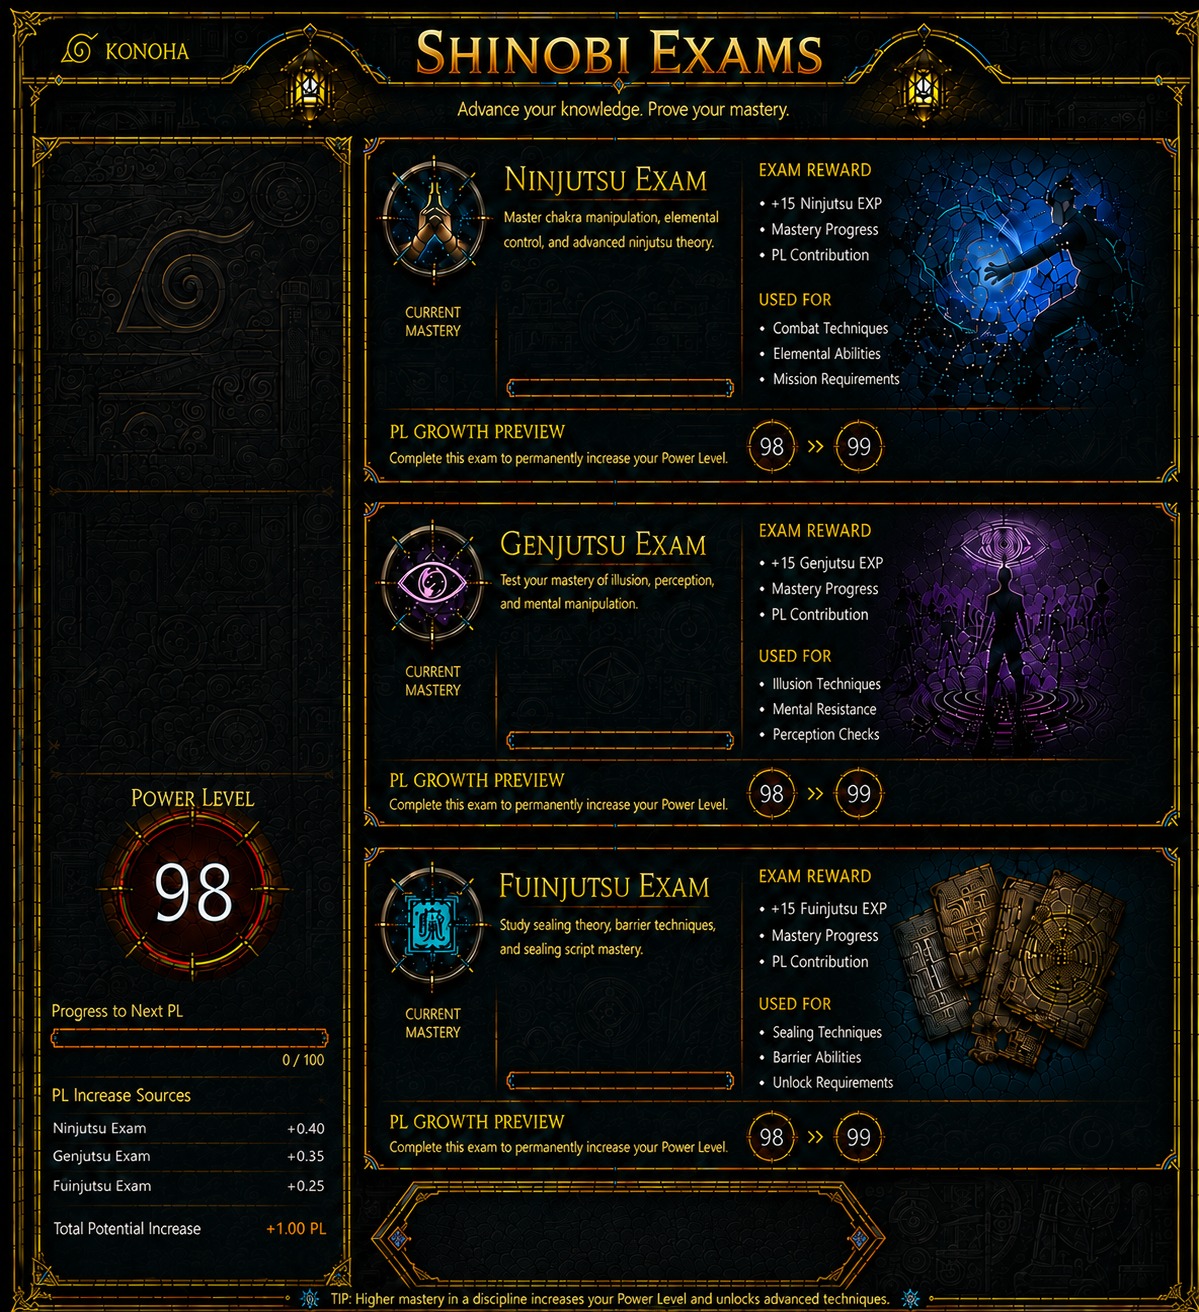
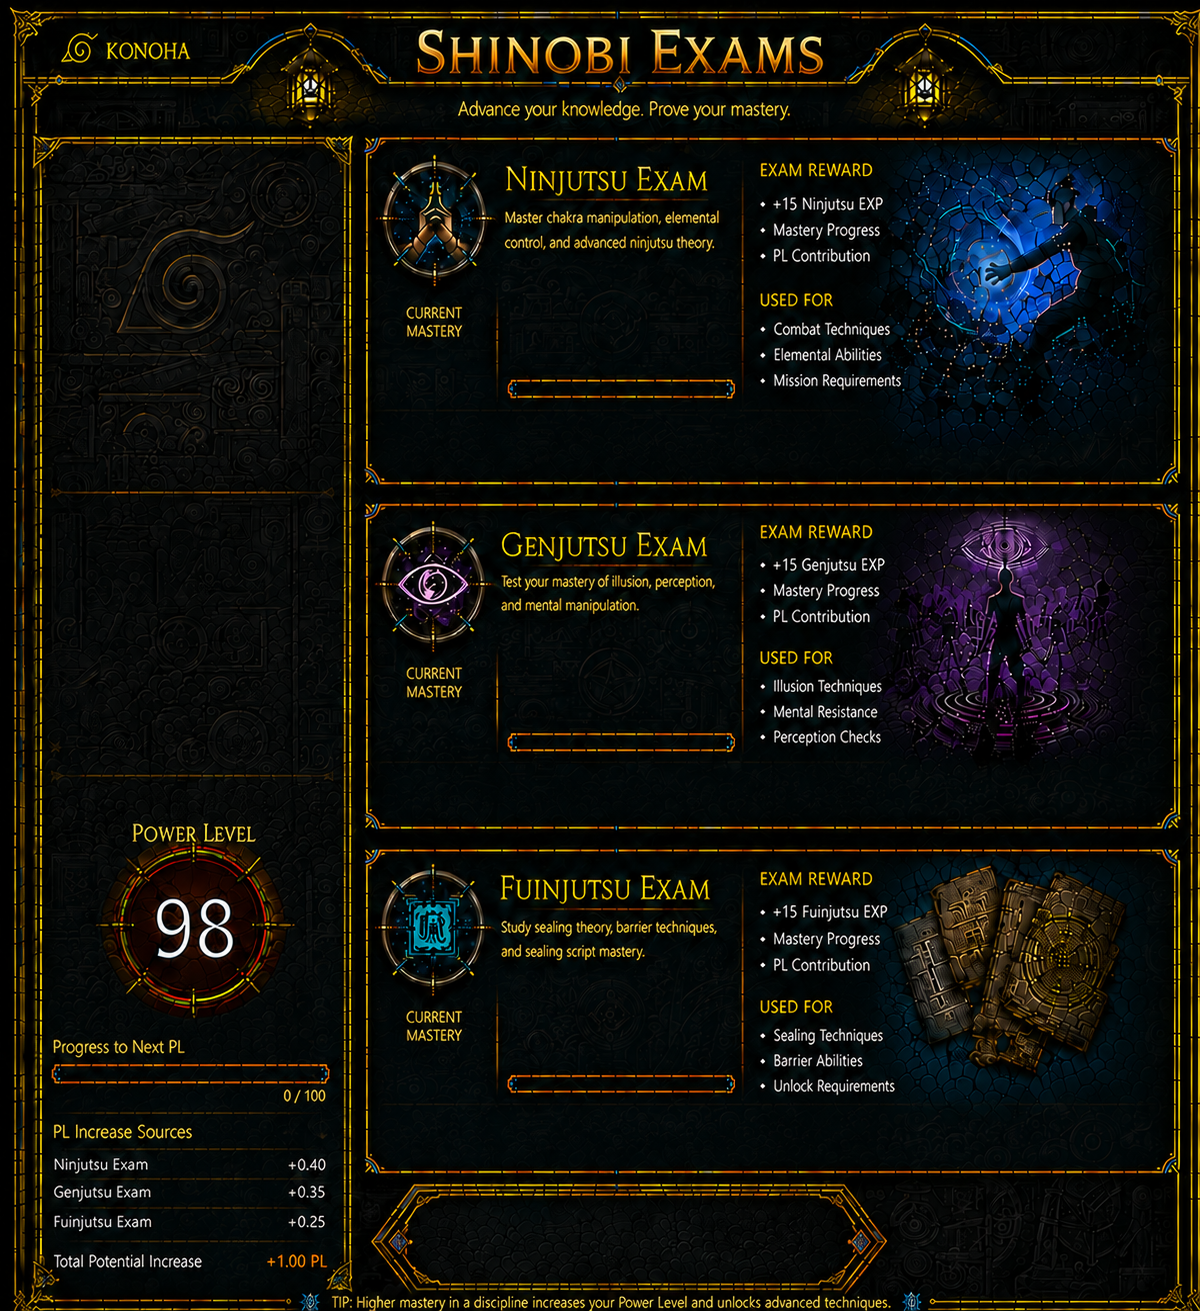
small fix, unbake image and text

Changed region(s): [[0.0, 0.0, 1.0, 1.0], [0.3394, 0.0, 0.6789, 0.0915], [0.7098, 0.0, 0.8641, 0.0915]]

diff --git a/style.css b/style.css
@@ -6719,7 +6719,7 @@ body {
     14.75% !important;
 
     top:
-        75% !important;
+        75.25% !important;
 
     width:
         28.5% !important;
@@ -6747,7 +6747,7 @@ body {
         15.5% !important;
 
     top:
-        83% !important;
+        84% !important;
 
     width:
         28.5% !important;
@@ -6780,7 +6780,7 @@ body {
         15.5% !important;
 
     top:
-        71.5% !important;
+        73% !important;
 
     width:
         28.5% !important;
